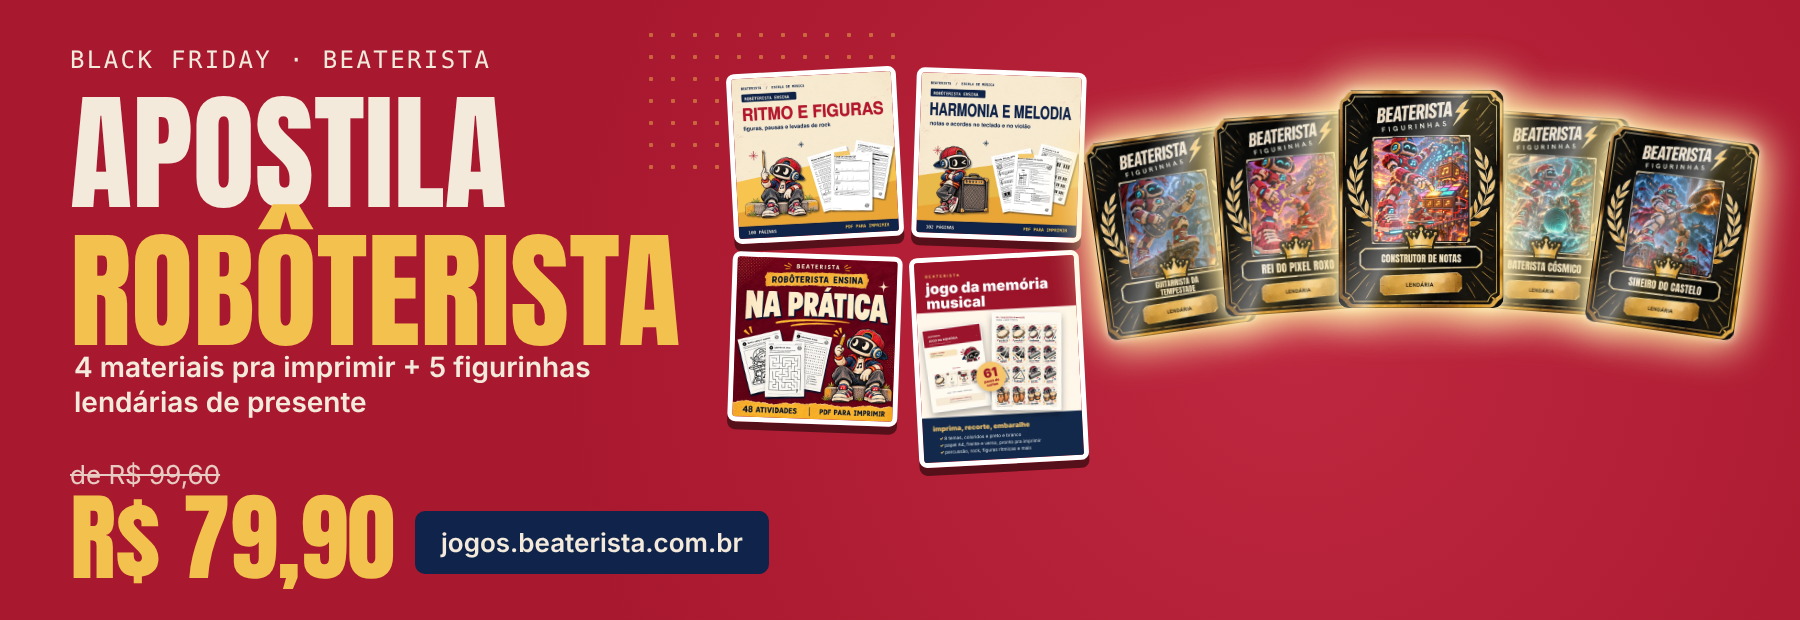
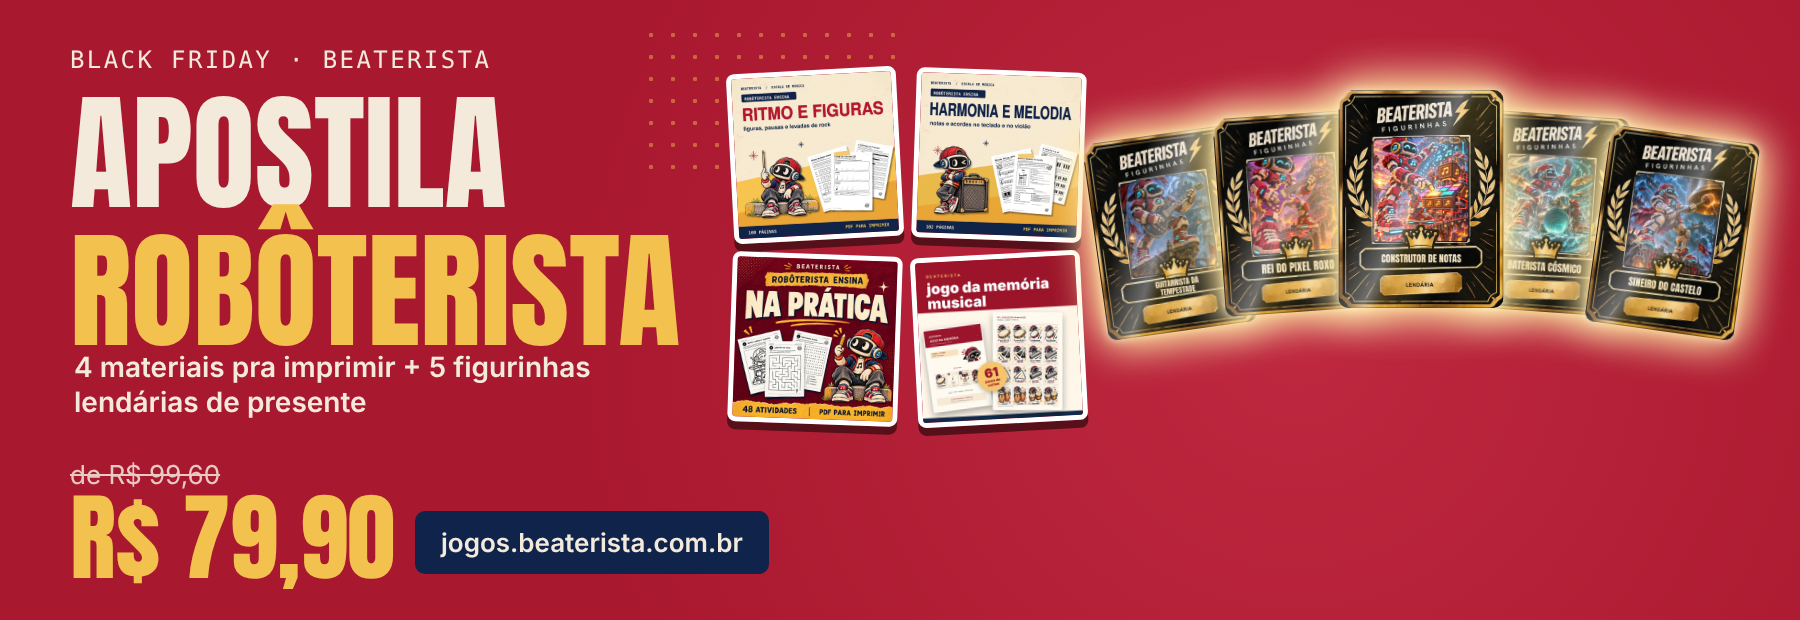
Kit: capa da memória quadrada e lendárias sem sobrepor a apostila
Claude-Session: https://claude.ai/code/session_017Ekti1GX9ozYE3rJDxhECA

Changed region(s): [[0.4978, 0.429, 0.6222, 0.7661]]

diff --git a/assets/originals/artes-beaterista/kit-roboterista/arte-feed.html b/assets/originals/artes-beaterista/kit-roboterista/arte-feed.html
@@ -7,8 +7,8 @@ h1{position:absolute;left:60px;top:90px;font-size:150px;line-height:1.1;font-wei
 .prods{position:absolute;left:50px;right:50px;top:420px;display:flex;gap:14px}
 .prods div{flex:1;background:#fff;border-radius:10px;padding:5px 5px 0;overflow:hidden;align-self:flex-start;box-shadow:0 10px 0 #55101a;transform:rotate(-2deg)}.prods div:nth-child(even){transform:rotate(2deg) translateY(14px)}
 .prods img{width:100%;display:block;border-radius:6px}
-.mais{position:absolute;top:690px;left:0;right:0;text-align:center;font-size:44px;color:#f2c14e}
-.cards{position:absolute;left:40px;right:40px;top:790px;display:flex;justify-content:center}
+.mais{position:absolute;top:668px;left:0;right:0;text-align:center;font-size:44px;color:#f2c14e}
+.cards{position:absolute;left:40px;right:40px;top:760px;display:flex;justify-content:center}
 .c{width:230px;margin:0 -10px;position:relative;filter:drop-shadow(0 0 28px #ffd866) drop-shadow(0 0 6px #fff)}
 .c:nth-child(1){transform:rotate(-12deg) translateY(30px)}.c:nth-child(2){transform:rotate(-6deg) translateY(8px)}.c:nth-child(4){transform:rotate(6deg) translateY(8px)}.c:nth-child(5){transform:rotate(12deg) translateY(30px)}.c:nth-child(3){z-index:2;transform:scale(1.12)}
 .c img{width:100%;display:block;border-radius:10px}
@@ -18,7 +18,7 @@ h1{position:absolute;left:60px;top:90px;font-size:150px;line-height:1.1;font-wei
 .btn{position:absolute;right:60px;bottom:50px;background:#10234a;padding:18px 26px;border-radius:10px;font:600 28px system-ui}
 </style></head><body><div class="bg"></div><div class="dots"></div>
 <div class="t">BLACK FRIDAY · BEATERISTA</div><h1>Apostila<em>Robôterista</em></h1>
-<div class="prods" style="top:410px"><div><img src="img/ritmo.png"></div><div><img src="img/harmonia.png"></div><div><img src="img/pratica.png"></div><div><img src="img/memoria.png"></div></div>
+<div class="prods" style="top:410px"><div><img src="img/ritmo.png"></div><div><img src="img/harmonia.png"></div><div><img src="img/pratica.png"></div><div><img src="img/memoria-quadrada.png"></div></div>
 <div class="mais" style="font-weight:400">+ 5 FIGURINHAS LENDÁRIAS DE PRESENTE</div>
 <div class="cards"><div class="c"><img src="lendarias-png/lendaria-01.png"></div><div class="c"><img src="lendarias-png/lendaria-02.png"></div><div class="c"><img src="lendarias-png/lendaria-03.png"></div><div class="c"><img src="lendarias-png/lendaria-04.png"></div><div class="c"><img src="lendarias-png/lendaria-05.png"></div></div>
 <div class="preco"><div><s>de R$ 99,60</s><b>R$ 79,90</b></div></div>

diff --git a/assets/originals/artes-beaterista/kit-roboterista/banner.html b/assets/originals/artes-beaterista/kit-roboterista/banner.html
@@ -22,6 +22,6 @@ h1{position:absolute;left:70px;top:84px;font-size:128px;line-height:1.08;font-we
 <div class="t">BLACK FRIDAY · BEATERISTA</div><h1>Apostila<em>Robôterista</em></h1>
 <div class="sub">4 materiais pra imprimir + 5 figurinhas lendárias de presente</div>
 <div class="preco"><div><s>de R$ 99,60</s><br><b>R$ 79,90</b></div><div class="btn">jogos.beaterista.com.br</div></div>
-<div class="prods"><img src="img/ritmo.png"><img src="img/harmonia.png"><img src="img/pratica.png"><img src="img/memoria.png"></div>
+<div class="prods"><img src="img/ritmo.png"><img src="img/harmonia.png"><img src="img/pratica.png"><img src="img/memoria-quadrada.png"></div>
 <div class="cards"><div class="c"><img src="lendarias-png/lendaria-01.png"></div><div class="c"><img src="lendarias-png/lendaria-02.png"></div><div class="c"><img src="lendarias-png/lendaria-03.png"></div><div class="c"><img src="lendarias-png/lendaria-04.png"></div><div class="c"><img src="lendarias-png/lendaria-05.png"></div></div>
 </body></html>
